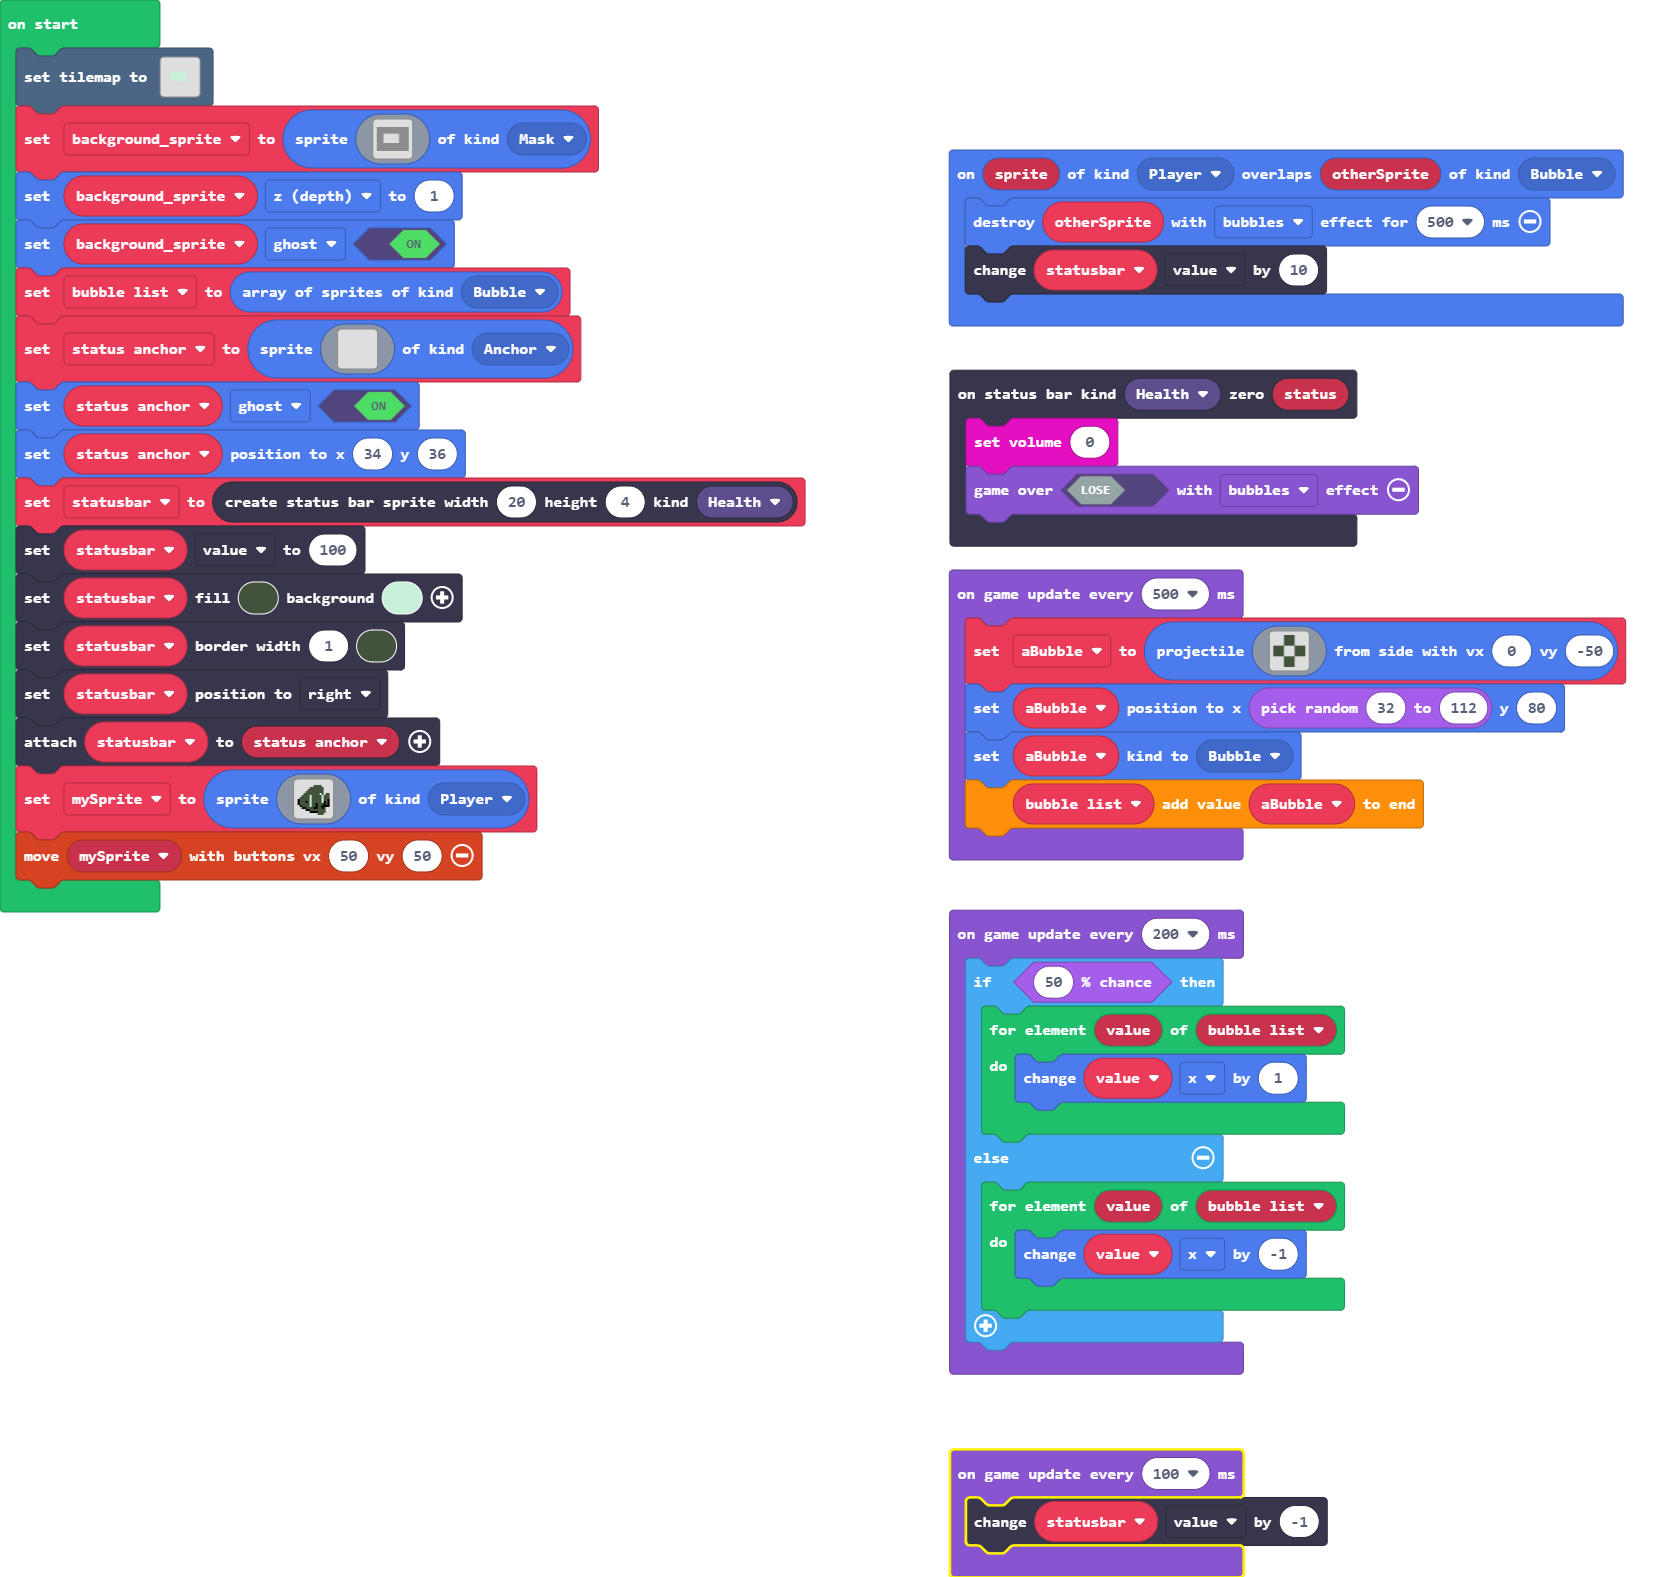
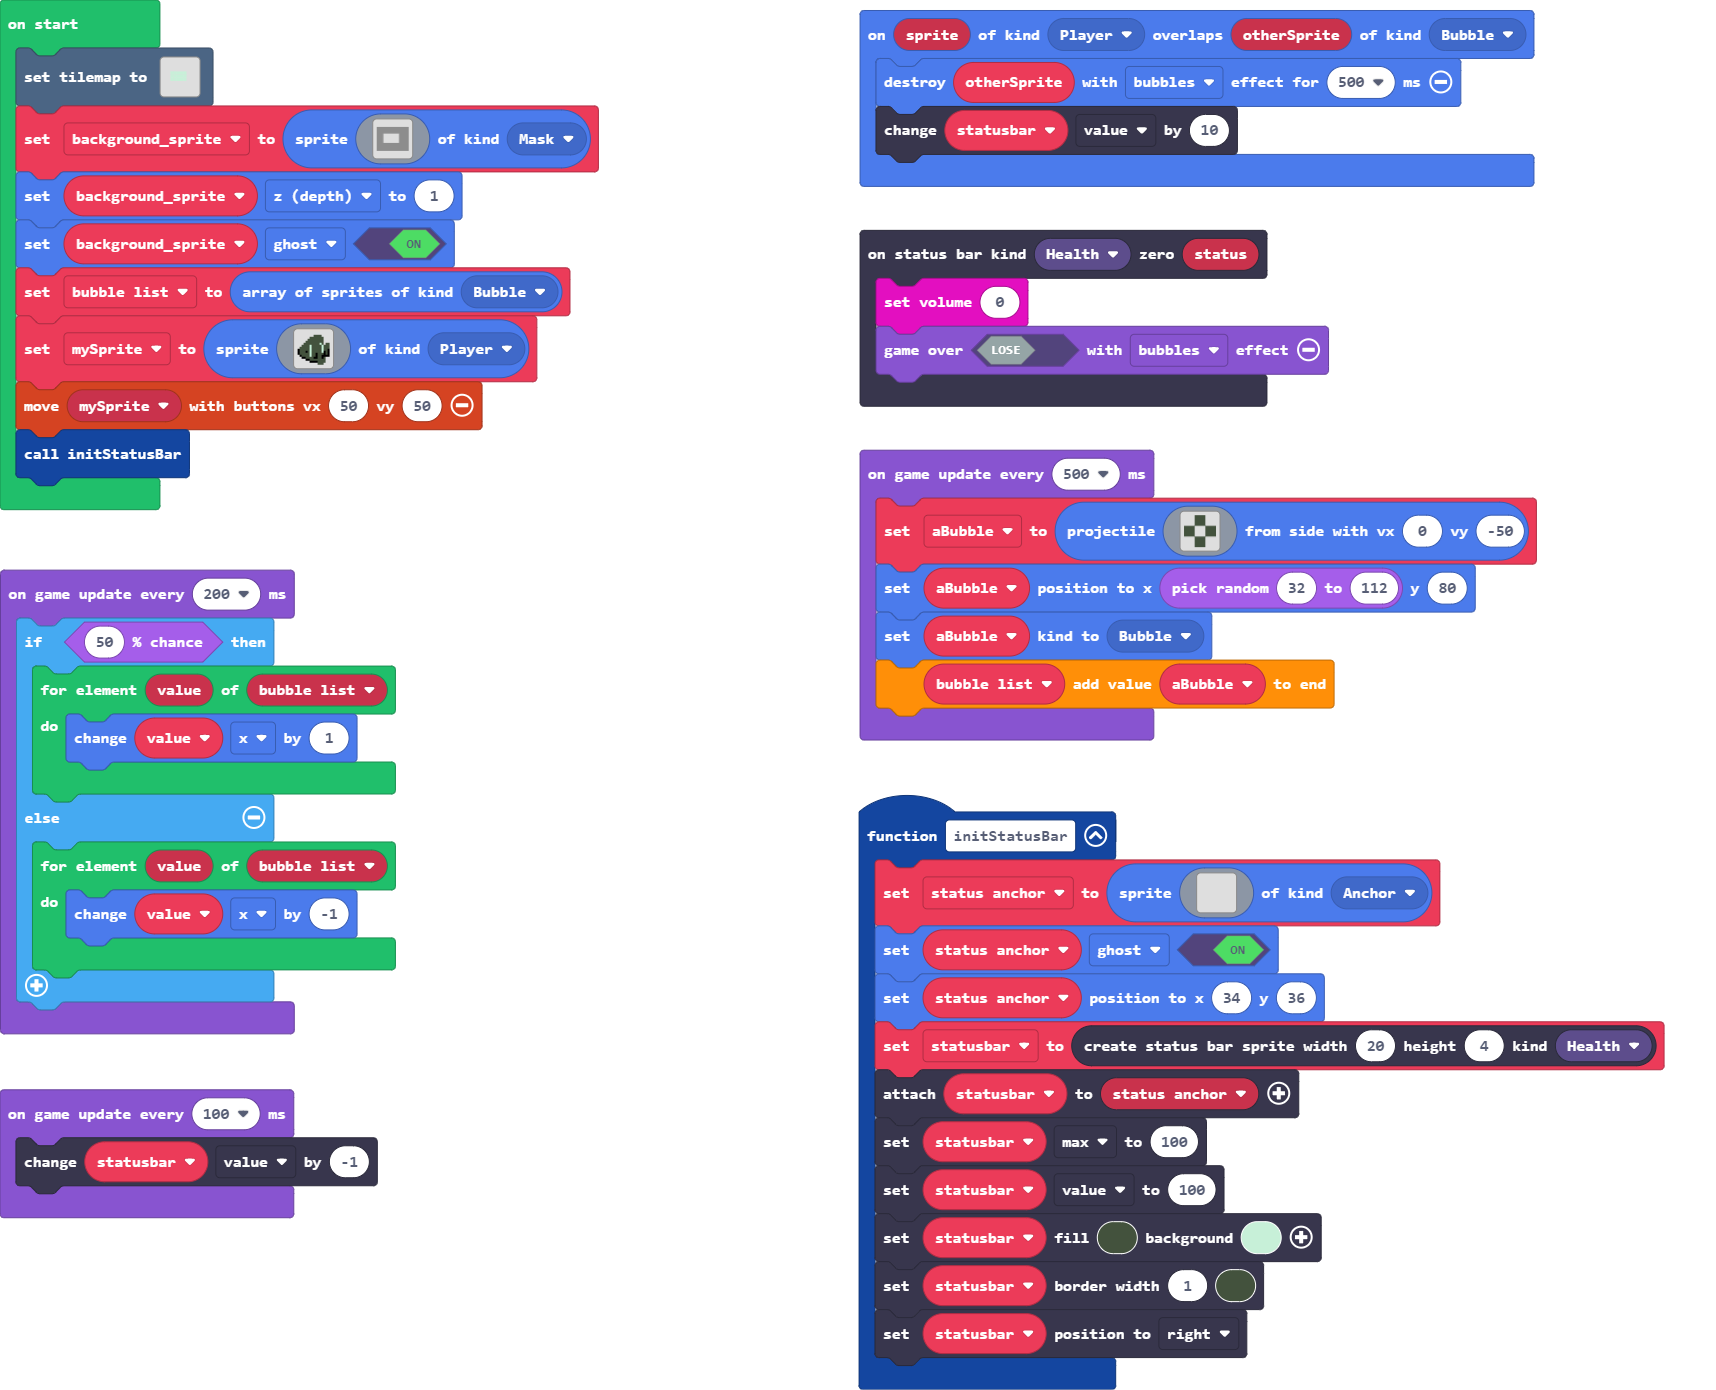
function for status bar

diff --git a/main.ts b/main.ts
@@ -4,6 +4,20 @@ namespace SpriteKind {
     export const Mask = SpriteKind.create()
     export const Anchor = SpriteKind.create()
 }
+function initStatusBar () {
+    status_anchor = sprites.create(img`
+        . 
+        `, SpriteKind.Anchor)
+    status_anchor.setFlag(SpriteFlag.Ghost, true)
+    status_anchor.setPosition(34, 36)
+    statusbar = statusbars.create(20, 4, StatusBarKind.Health)
+    statusbar.attachToSprite(status_anchor)
+    statusbar.max = 100
+    statusbar.value = 100
+    statusbar.setColor(2, 1)
+    statusbar.setBarBorder(1, 2)
+    statusbar.positionDirection(CollisionDirection.Right)
+}
 statusbars.onZero(StatusBarKind.Health, function (status) {
     music.setVolume(0)
     game.over(false, effects.bubbles)
@@ -14,6 +28,7 @@ sprites.onOverlap(SpriteKind.Player, SpriteKind.Bubble, function (sprite, otherS
 })
 let aBubble: Sprite = null
 let statusbar: StatusBarSprite = null
+let status_anchor: Sprite = null
 tiles.setTilemap(tilemap`level`)
 let background_sprite = sprites.create(img`
     ffffffffffffffffffffffffffffffffffffffffffffffffffffffffffffffffffffffffffffffffffffffffffffffffffffffffffffffffffffffffffffffffffffffffffffffffffffffffffffffff
@@ -140,17 +155,6 @@ let background_sprite = sprites.create(img`
 background_sprite.z = 1
 background_sprite.setFlag(SpriteFlag.Ghost, true)
 let bubble_list = sprites.allOfKind(SpriteKind.Bubble)
-let status_anchor = sprites.create(img`
-    . 
-    `, SpriteKind.Anchor)
-status_anchor.setFlag(SpriteFlag.Ghost, true)
-status_anchor.setPosition(34, 36)
-statusbar = statusbars.create(20, 4, StatusBarKind.Health)
-statusbar.value = 100
-statusbar.setColor(2, 1)
-statusbar.setBarBorder(1, 2)
-statusbar.positionDirection(CollisionDirection.Right)
-statusbar.attachToSprite(status_anchor)
 let mySprite = sprites.create(img`
     . . . . . . . . . . . . . . . . 
     . . . . . . . . c c c c . . . . 
@@ -170,6 +174,7 @@ let mySprite = sprites.create(img`
     . . . . . . . . . . c c c . . . 
     `, SpriteKind.Player)
 controller.moveSprite(mySprite, 50, 50)
+initStatusBar()
 game.onUpdateInterval(500, function () {
     aBubble = sprites.createProjectileFromSide(img`
         . 3 . 
